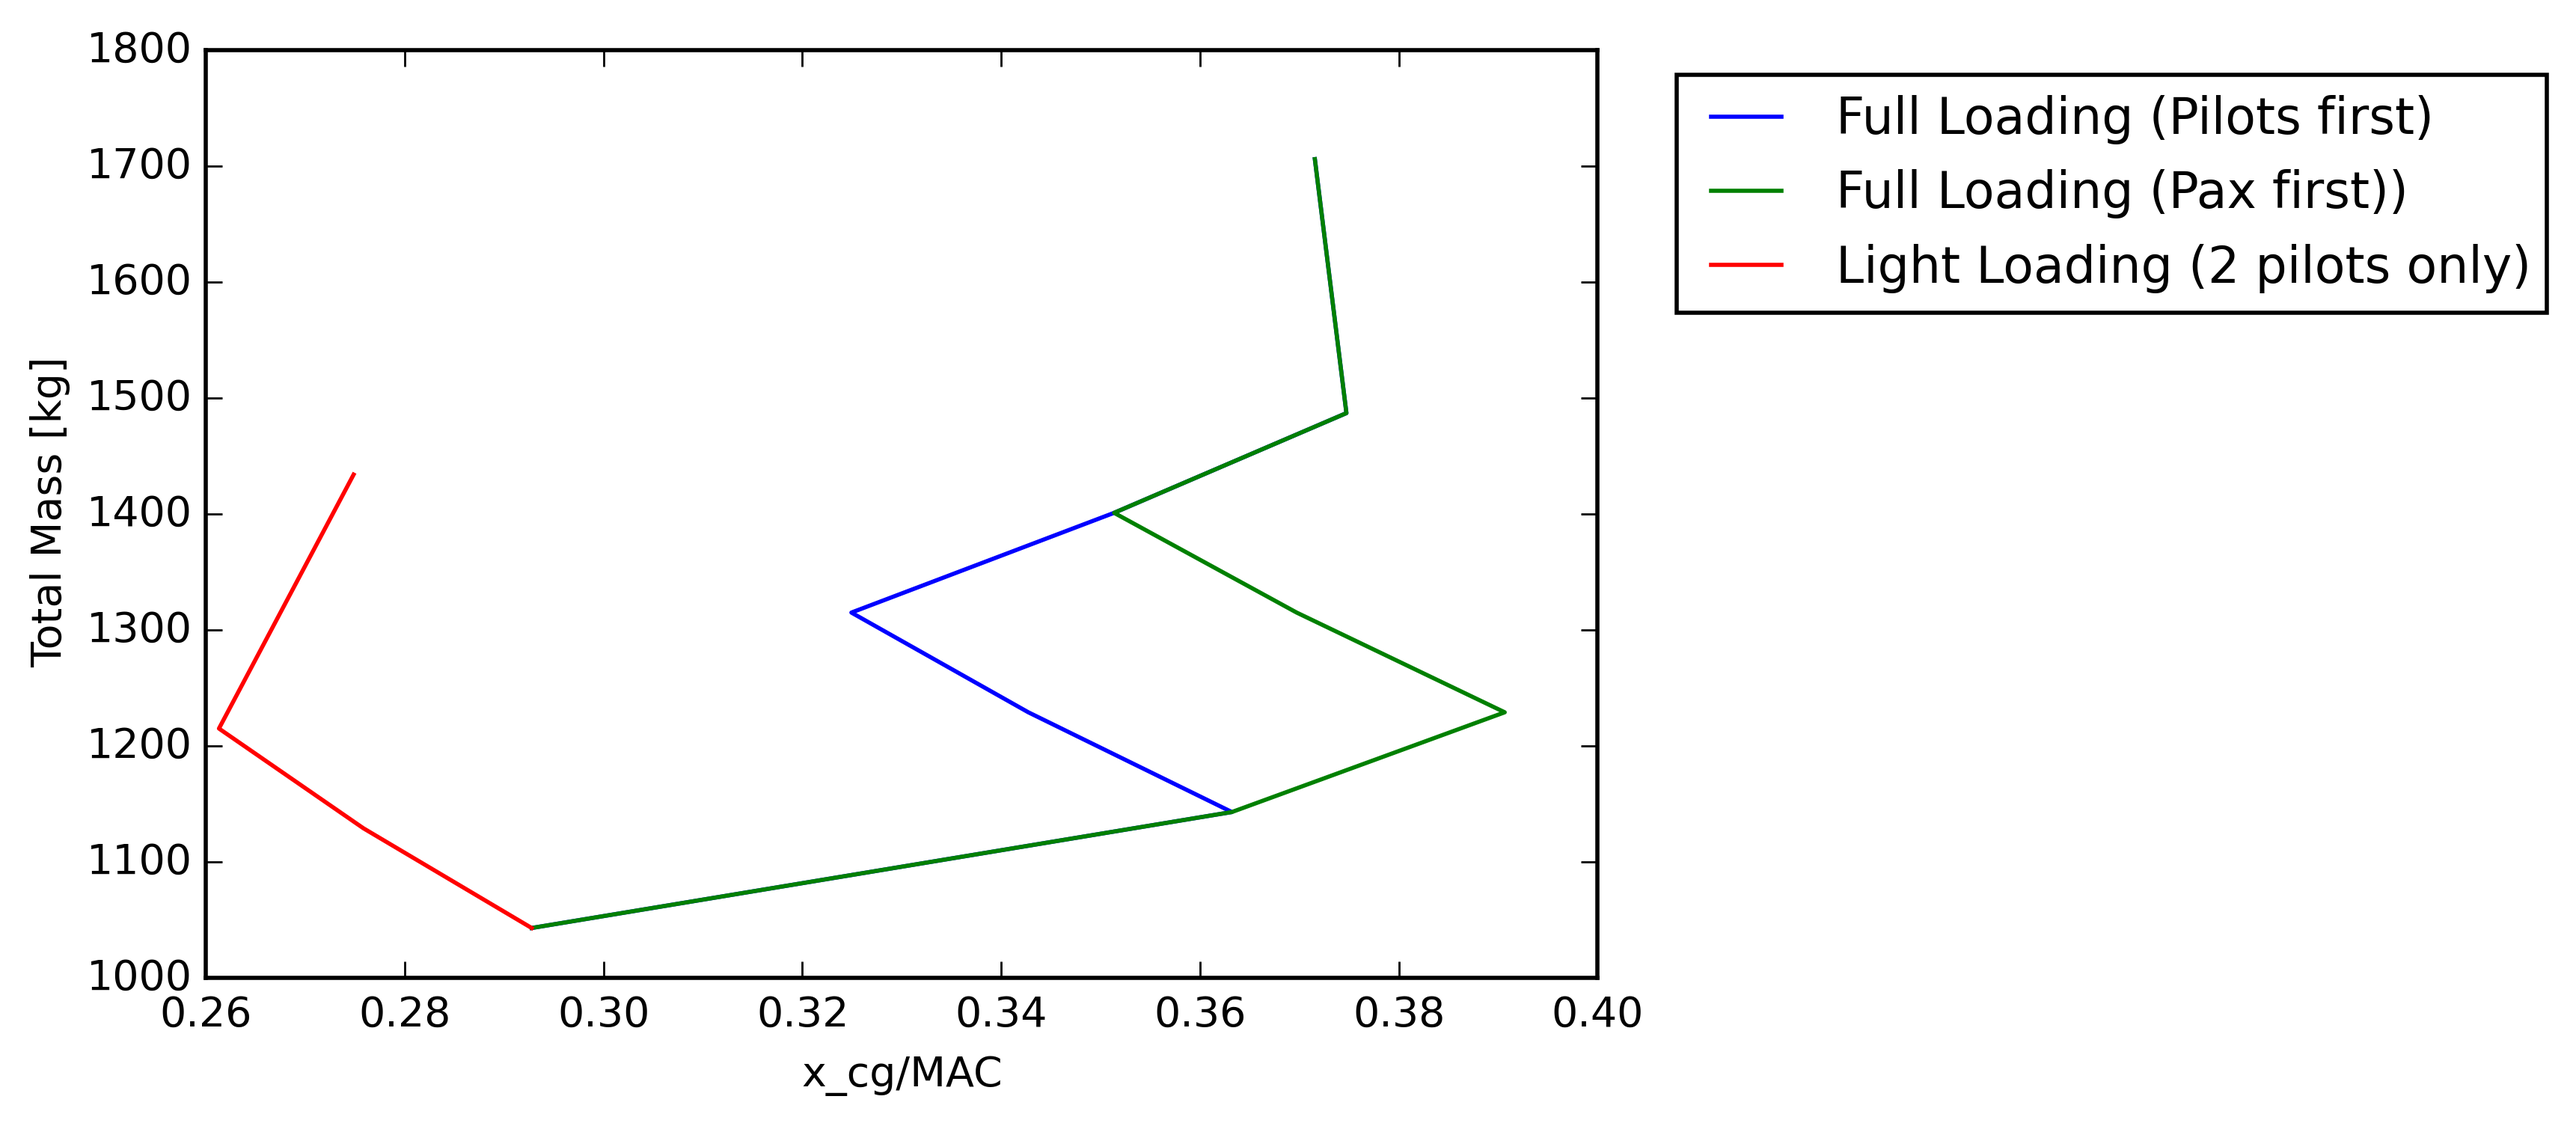
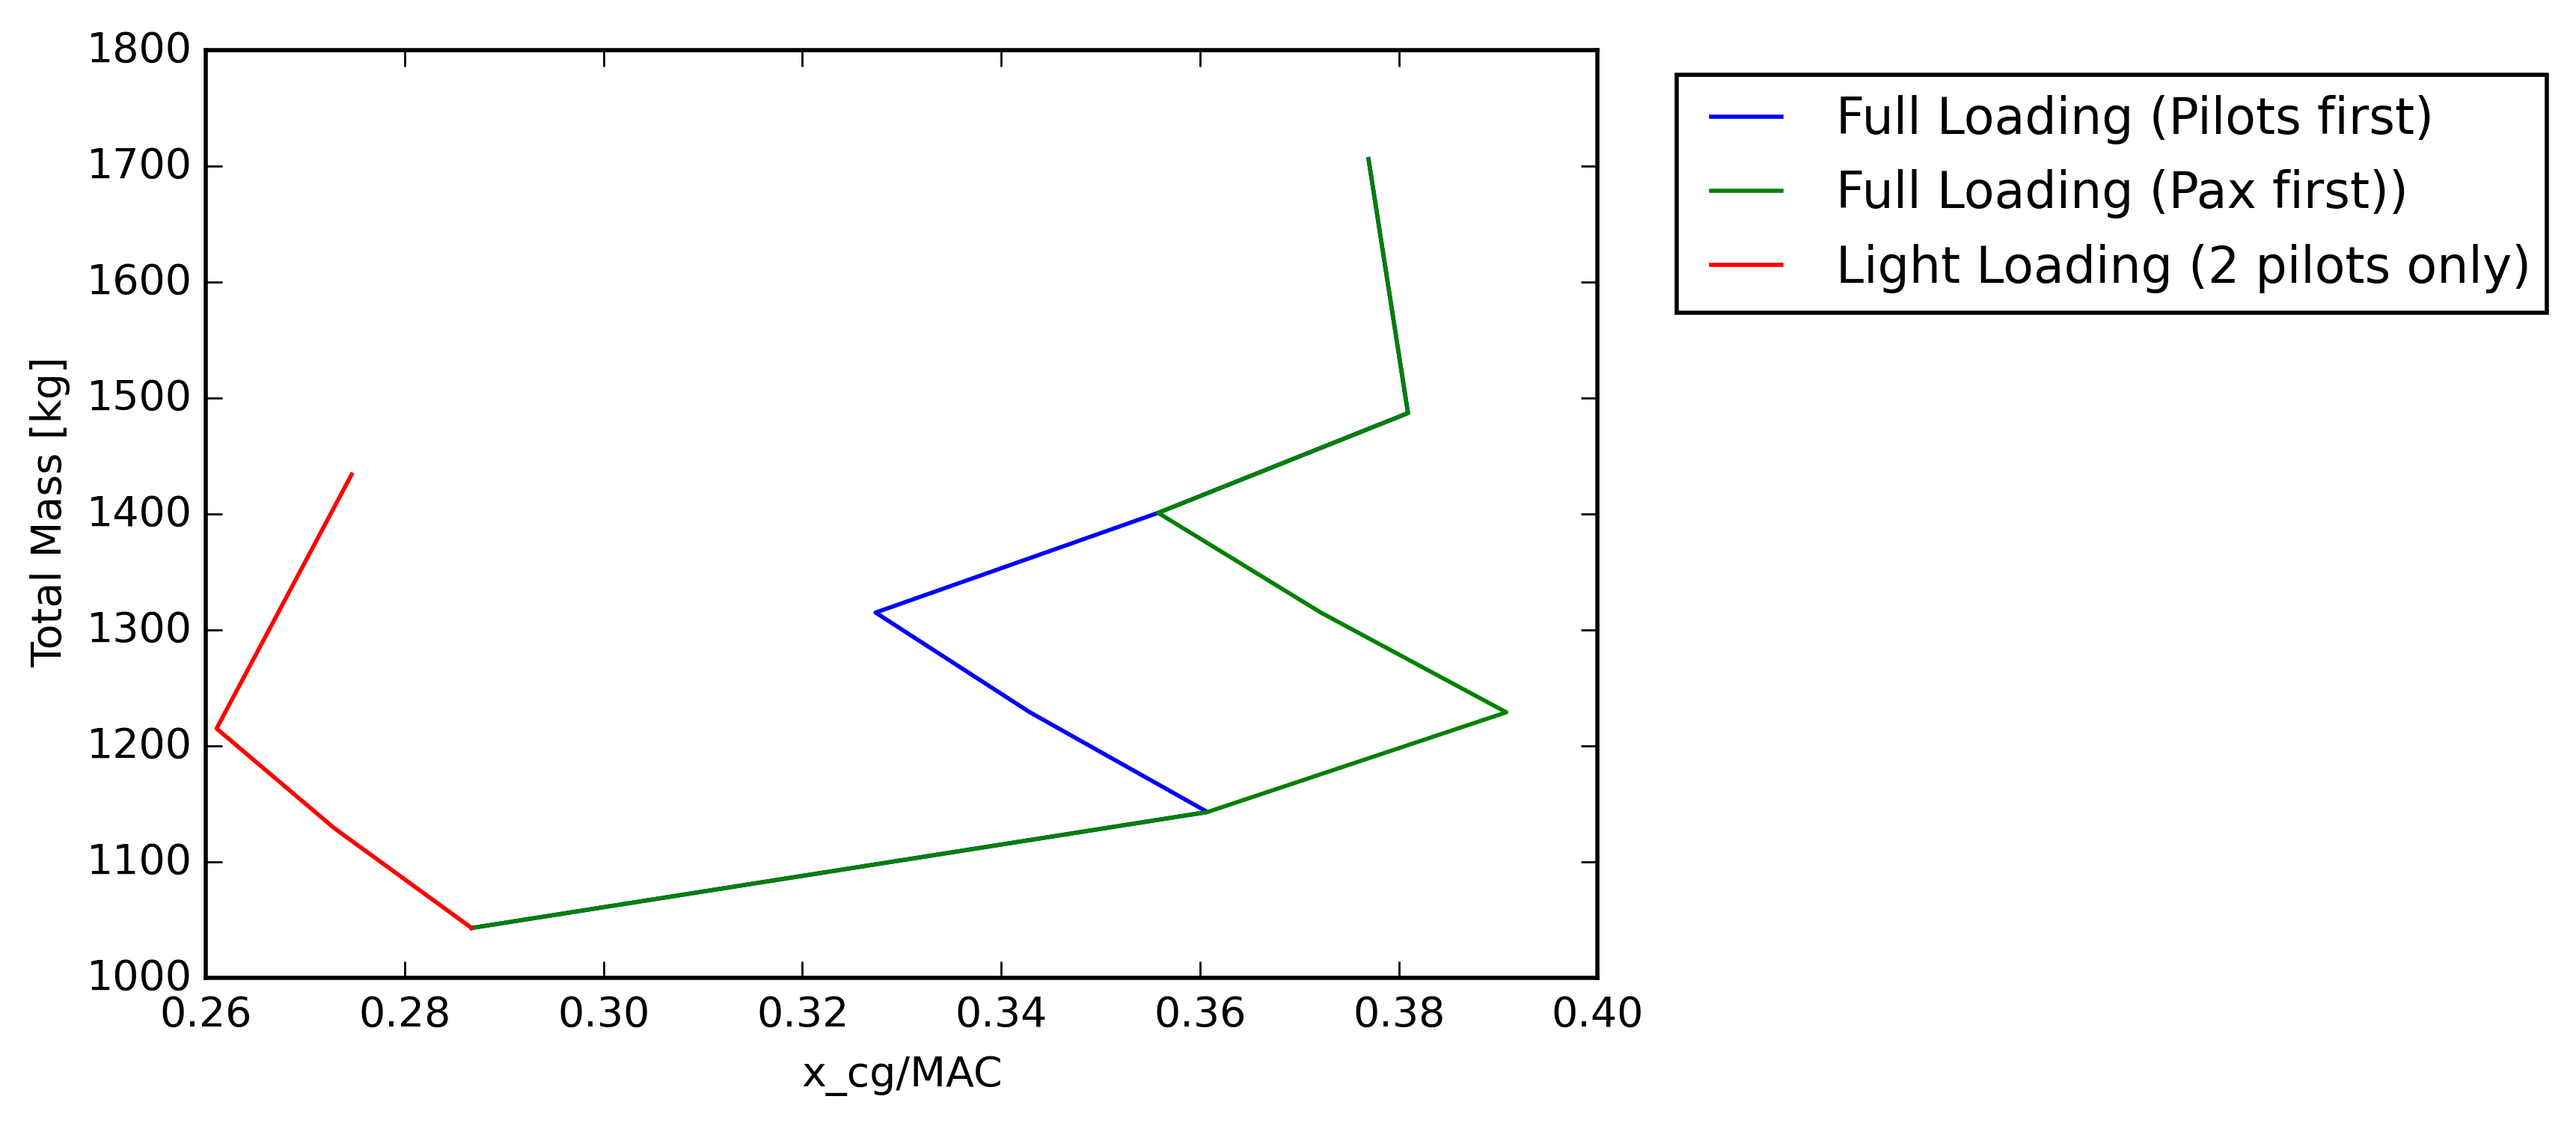
a

diff --git a/Stability_control/HorizontalTail.py b/Stability_control/HorizontalTail.py
@@ -206,9 +206,9 @@ def StabTailSizingPlots(OEW,W_wing,c,x_ac,downwash,Cmac,CL_Ah_land,CL_alpha_Ah_l
 
 
 #### RUN FUNCTIONS: ####
-StabTailSizingPlots(1043,132,1.46,0.25,0.136,-0.124,2.1,3.59,-0.44,2.7,1,2.35,2.61,6.0,0.001,0.001)
-#
-x_lemac_array, xcg_for_load, xcg_aft_load, xcg_pil_load, mass_tot, mass_tot_pil, xcg_for, xcg_aft, xcg_control, xcg_stab, ShS_array, ShS_opt, x_lemac_opt, xcg_OEW_opt, xcg_for_opt, xcg_aft_opt, where_opt = StabTailSizing(1043,132,1.46,0.25,0.136,-0.124,2.1,3.59,-0.44,2.7,1,2.35,2.61,6.0,0.001,0.001)
+#StabTailSizingPlots(1043,352,1.46,0.25,0.136,-0.124,2.1,3.59,-0.44,2.7,1,2.35,2.61,6.0,0.001,0.001)
+##
+x_lemac_array, xcg_for_load, xcg_aft_load, xcg_pil_load, mass_tot, mass_tot_pil, xcg_for, xcg_aft, xcg_control, xcg_stab, ShS_array, ShS_opt, x_lemac_opt, xcg_OEW_opt, xcg_for_opt, xcg_aft_opt, where_opt = StabTailSizing(1043,352,1.46,0.25,0.136,-0.124,2.1,3.59,-0.44,2.7,1,2.35,2.61,6.0,0.001,0.001)
 ############
 #OEW,W_wing,c,x_ac,downwash,Cmac,CL_Ah_land,CL_alpha_Ah_land,CL_h_land,CL_alpha_h_land,VhV2,xcg_OEW,xcg_wing,lh, x_lemac_acc, ShS_acc
 

diff --git a/FPP/CruiseRange.py b/FPP/CruiseRange.py
@@ -552,9 +552,9 @@ def CruisePlots(MTOW,OEW,Vfuelmax,S,V_acc):
     
 
 ####### RUN FUNCTIONS: ###########
-#Range, Speed = CruisePlots(1700,1043,0.56,15.56,0.01)
-#
-#R_eff, R_spec, R_Vmax, V_Cruise_eff, V_Cruise_spec, V_max, PowerReq, PowerAva, PowerCruise_spec, V_min, V_Loiter, V_array, MTOW_req, Fuel_req = calcCruise(1700,1043,0.56,444,15.56,1400000,0.01)
+Range, Speed = CruisePlots(1724,1043,0.56,15.56,0.01)
+
+R_eff, R_spec, R_Vmax, V_Cruise_eff, V_Cruise_spec, V_max, PowerReq, PowerAva, PowerCruise_spec, V_min, V_Loiter, V_array, MTOW_req, Fuel_req = calcCruise(1724,1043,0.56,444,15.56,1400000,0.01)
 #
 #PowerCruise_alt, PowerAva_alt, kilometrage = calcAltOpt(1600*9.81,np.arange(50,150,0.01),15.56)
 ##############################
